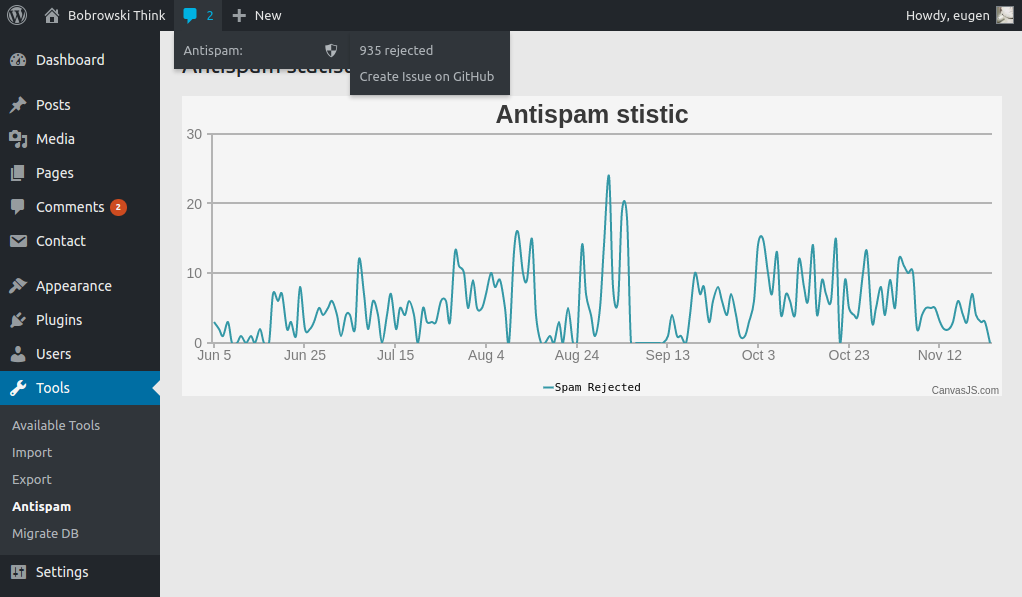
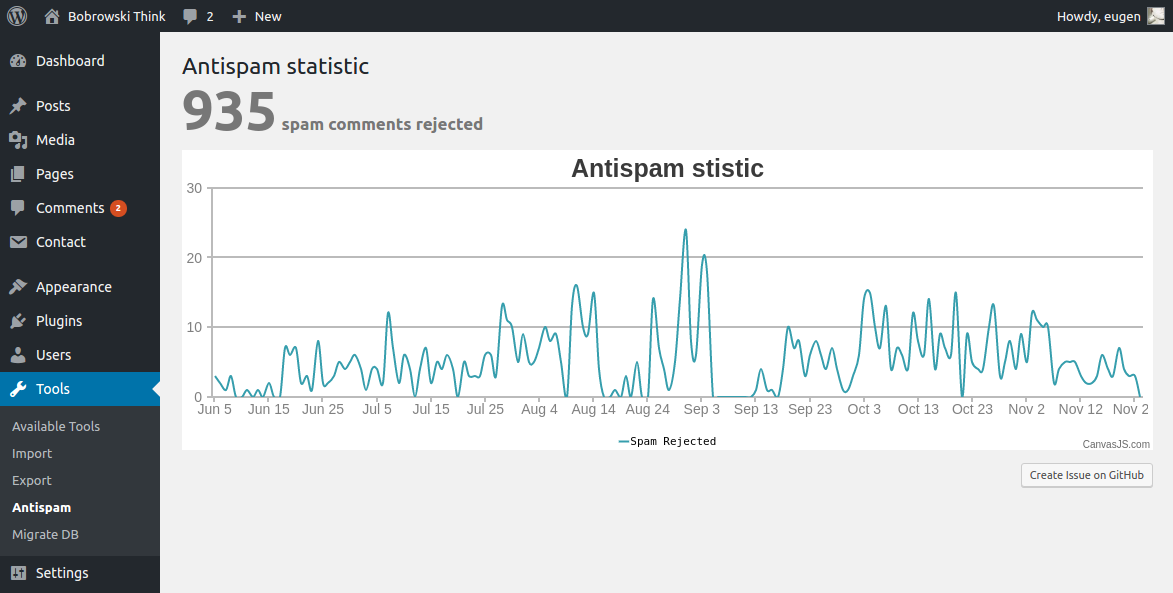
Change second screenshot

diff --git a/admin/admin.php b/admin/admin.php
@@ -41,11 +41,10 @@ class Antispam_Admin
             <h1>
                 <?php echo get_admin_page_title(); ?>
             </h1>
-            <p></p>
-            <div id="chartContainer" class="antispam-chart" style="height: 300px; width: 100%;">
+            <h2 style="color: #777"><span style="font-size: 3.3em"><?php echo get_option('spams_detected', 0); ?></span> spam comments rejected</h2>
+            <div id="chartContainer" class="antispam-chart" style="height: 300px; width: 100%;"></div>
 
-            </div>
-
+            <p style="text-align: right"><a class="button button-small" href="https://github.com/EugenBobrowski/antispam/issues">Create Issue on GitHub</a></p>
         </div>
 
 
@@ -80,7 +79,8 @@ class Antispam_Admin
     {
         $wp_admin_bar->add_node(array(
             "id" => "antispam-plugin",
-            "title" => "Antispam:",
+            "title" => "Antispam ",
+            'href' => admin_url('tools.php?page=antispam-statistic'),
             "parent" => "comments",
         ));
 
